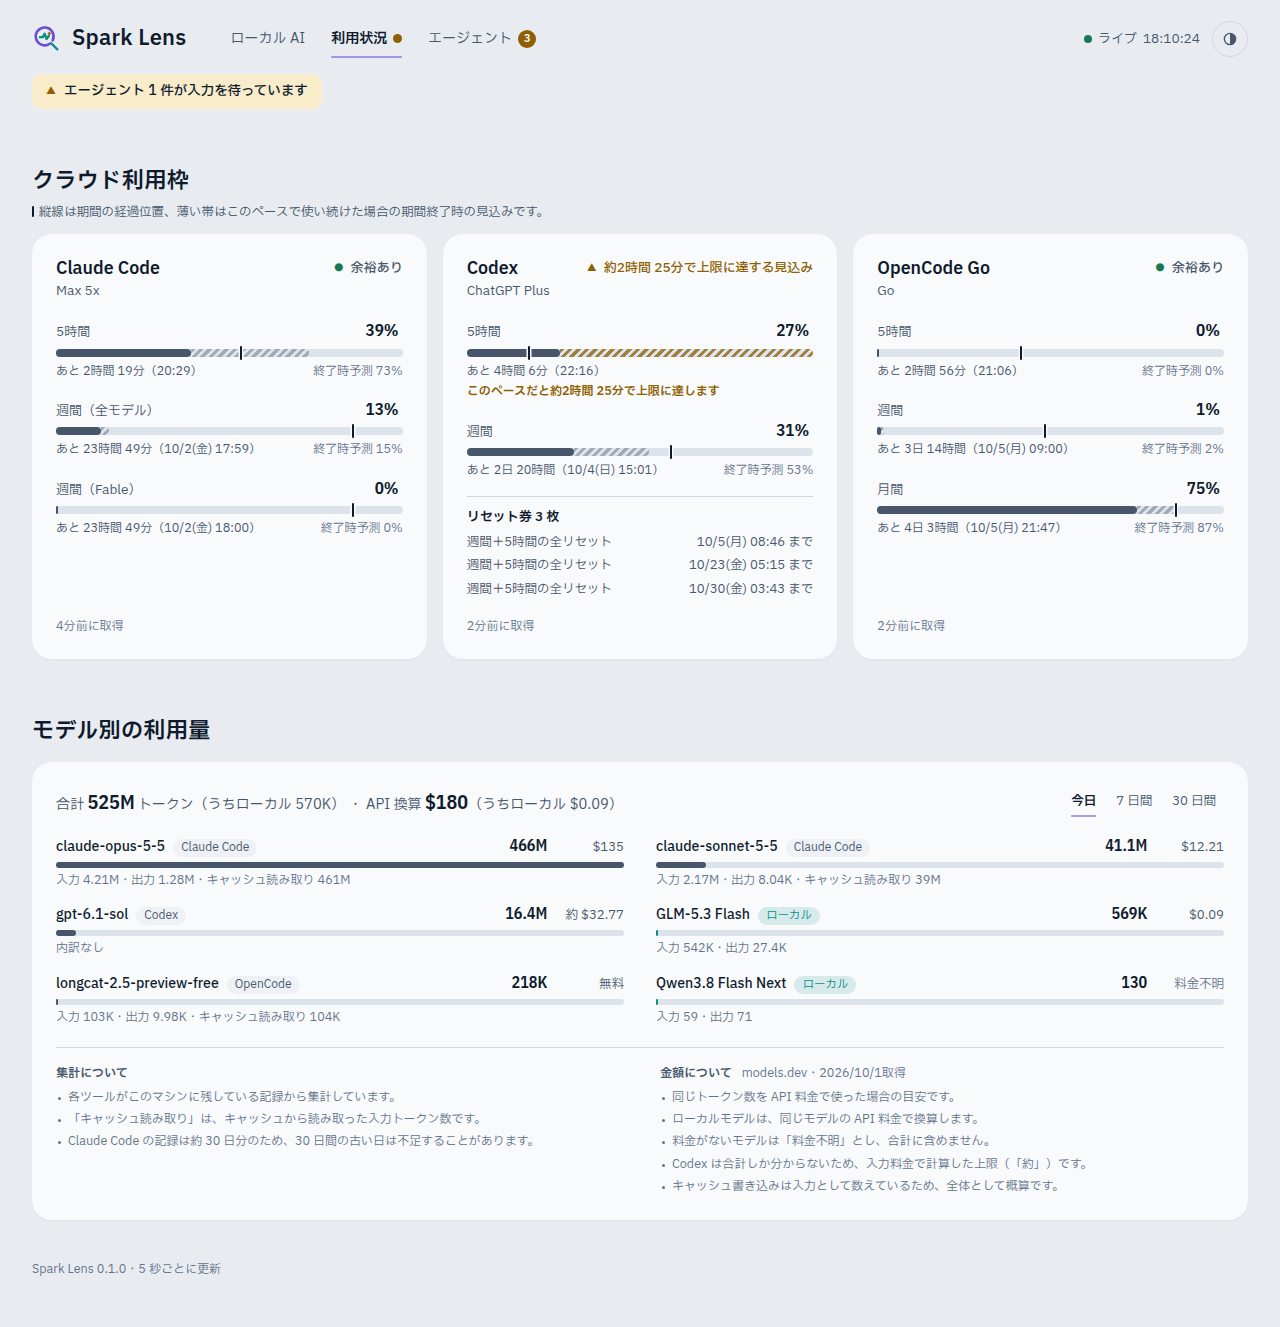
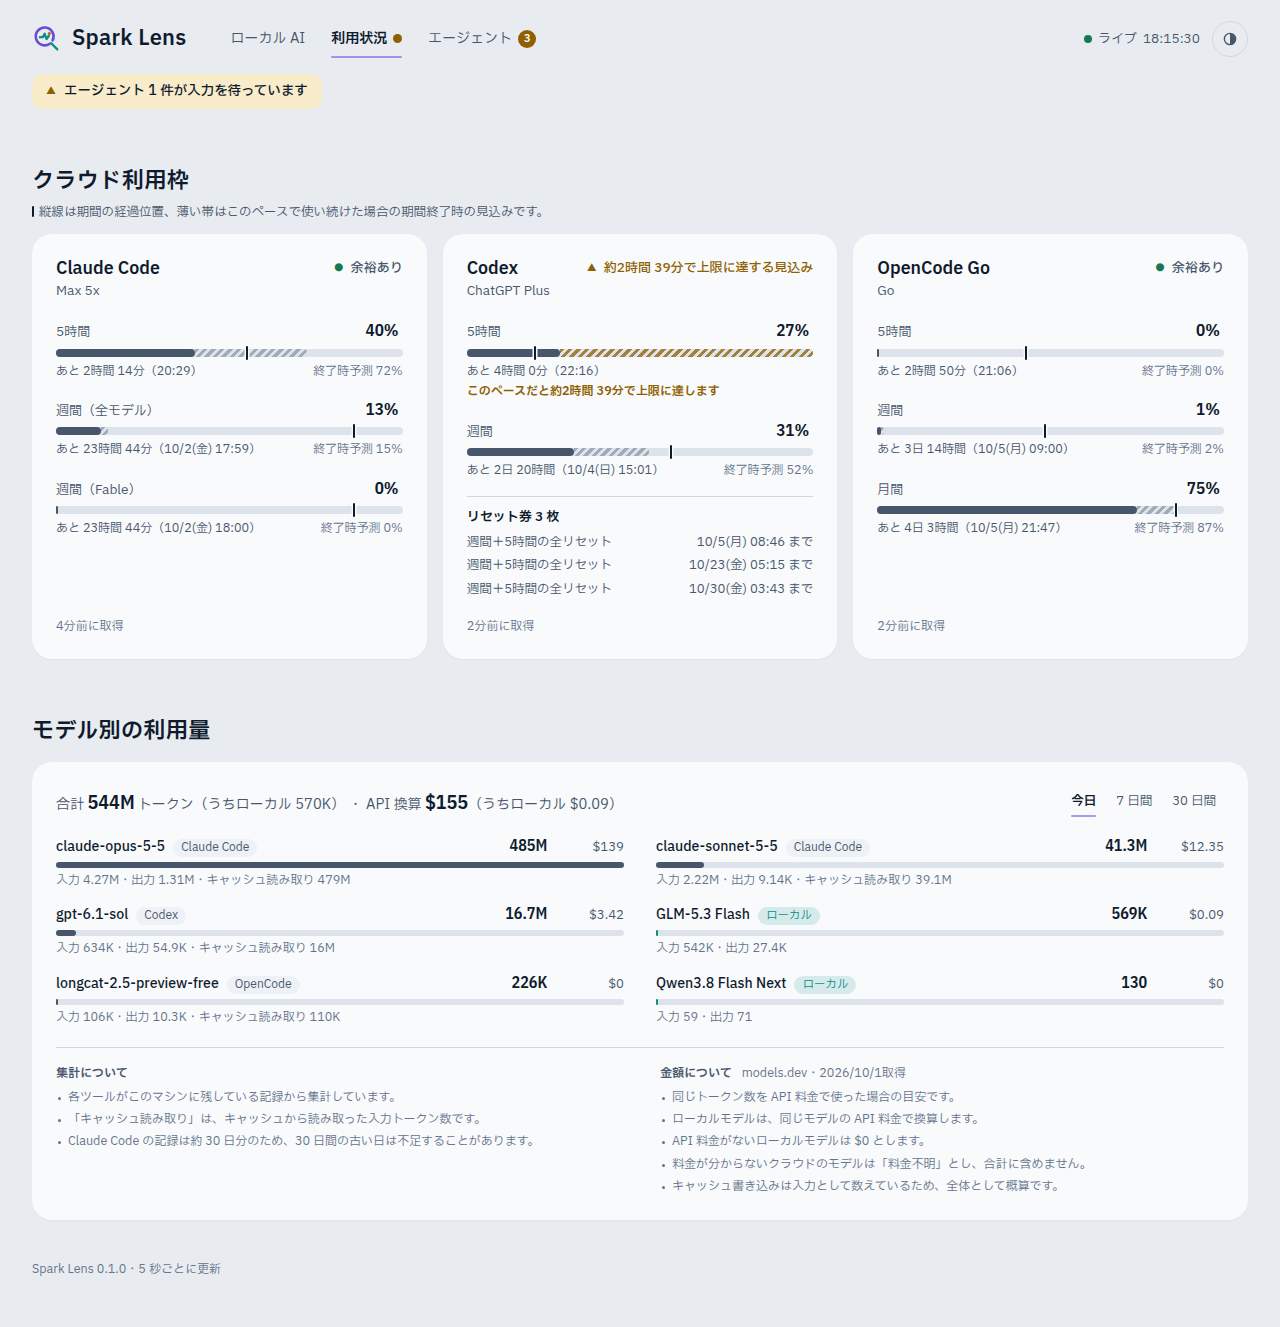
Codex usage with input, cached and output from rollouts; local models without an API price count as $0

diff --git a/server/collectors/usage.ts b/server/collectors/usage.ts
@@ -1,8 +1,7 @@
-import { existsSync, readdirSync } from "node:fs";
-import { readdir, readFile, stat } from "node:fs/promises";
+import { existsSync } from "node:fs";
+import { open, readdir, readFile, stat } from "node:fs/promises";
 import { homedir } from "node:os";
 import { join } from "node:path";
-import { DatabaseSync } from "node:sqlite";
 import { stateDir } from "../config.ts";
 import { run } from "../exec.ts";
 import { applyPrices, PriceBook } from "../pricing.ts";
@@ -140,32 +139,114 @@ class ClaudeSource {
 
 // ------------------------------------------------------------------ Codex
 
-function codexThreads(target: DayModel): void {
-  const home = process.env.CODEX_HOME || join(homedir(), ".codex");
-  let names: string[] = [];
-  try {
-    names = readdirSync(home);
-  } catch {
-    return;
-  }
-  const version = (n: string) => Number(/^state_(\d+)\.sqlite$/.exec(n)?.[1] ?? -1);
-  const db = names.filter((n) => version(n) >= 0).sort((a, b) => version(a) - version(b)).pop();
-  if (!db) return;
-  try {
-    const conn = new DatabaseSync(join(home, db), { readOnly: true });
+interface CodexEntry {
+  key: string;
+  day: string;
+  model: string;
+  input: number;
+  output: number;
+  cached: number;
+}
+
+/**
+ * Reads complete lines of a Codex rollout. Each `token_usage_record` is one
+ * response with its own usage; the model comes from the latest
+ * `turn_context`. `input_tokens` includes the cached part, as in the OpenAI API.
+ * Older rollouts without those records fall back to `token_count` events.
+ */
+export function parseCodexRollout(text: string, state: { model: string | null }): CodexEntry[] {
+  const out: CodexEntry[] = [];
+  for (const line of text.split("\n")) {
+    if (!line.includes('"turn_context"') && !line.includes('"token_usage_record"') && !line.includes('"token_count"')) continue;
+    let o: Record<string, unknown>;
     try {
-      const rows = conn
-        .prepare("select tokens_used, model, model_provider, updated_at_ms from threads where updated_at_ms > ? and tokens_used > 0")
-        .all(Date.now() - SCAN_DAYS * 86400_000) as Record<string, unknown>[];
-      for (const r of rows) {
-        const model = typeof r.model === "string" && r.model ? r.model : "モデル不明";
-        add(target, localDate(new Date(Number(r.updated_at_ms))), "Codex", model, { totalOnly: Number(r.tokens_used) || 0 });
-      }
-    } finally {
-      conn.close();
+      o = JSON.parse(line);
+    } catch {
+      continue;
     }
-  } catch {
-    // Schema change: Codex simply drops out of the table.
+    const p = (o.payload ?? {}) as Record<string, unknown>;
+    if (o.type === "turn_context") {
+      if (typeof p.model === "string" && p.model) state.model = p.model;
+      continue;
+    }
+    let usage: Record<string, number> | undefined;
+    let key: string;
+    if (o.type === "token_usage_record") {
+      usage = p.usage as Record<string, number> | undefined;
+      key = `r:${String(p.response_id ?? "")}`;
+    } else if (o.type === "event_msg" && p.type === "token_count") {
+      const info = p.info as Record<string, Record<string, number>> | null | undefined;
+      usage = info?.last_token_usage;
+      // The running total identifies a reading even when it is logged twice.
+      key = `c:${p.info ? JSON.stringify(info?.total_token_usage) : ""}`;
+    } else continue;
+    const at = Date.parse(String(o.timestamp ?? ""));
+    if (!usage || !Number.isFinite(at) || key.length <= 2) continue;
+    const cached = usage.cached_input_tokens ?? 0;
+    out.push({
+      key,
+      day: localDate(new Date(at)),
+      model: state.model ?? "モデル不明",
+      input: Math.max(0, (usage.input_tokens ?? 0) - cached),
+      output: usage.output_tokens ?? 0,
+      cached,
+    });
+  }
+  return out;
+}
+
+/** Codex rollouts, read incrementally: a growing file is read from where the last poll stopped. */
+class CodexSource {
+  private readonly files = new Map<string, { offset: number; mtimeMs: number; model: string | null; entries: CodexEntry[] }>();
+  private readonly root = join(process.env.CODEX_HOME || join(homedir(), ".codex"), "sessions");
+
+  async collect(target: DayModel): Promise<void> {
+    const since = Date.now() - SCAN_DAYS * 86400_000;
+    const found = await walk(this.root, since);
+    const live = new Set(found);
+    for (const f of this.files.keys()) if (!live.has(f)) this.files.delete(f);
+    for (const f of found) {
+      try {
+        const info = await stat(f);
+        let cur = this.files.get(f);
+        // A file that shrank was replaced; start over.
+        if (!cur || info.size < cur.offset) cur = { offset: 0, mtimeMs: 0, model: null, entries: [] };
+        if (info.size > cur.offset) {
+          const handle = await open(f, "r");
+          try {
+            const buf = Buffer.alloc(info.size - cur.offset);
+            await handle.read(buf, 0, buf.length, cur.offset);
+            // Only complete lines; a half-written last line waits for the next poll.
+            const end = buf.lastIndexOf(0x0a) + 1;
+            if (end > 0) {
+              const state = { model: cur.model };
+              cur.entries.push(...parseCodexRollout(buf.subarray(0, end).toString("utf8"), state));
+              cur.model = state.model;
+              cur.offset += end;
+            }
+          } finally {
+            await handle.close();
+          }
+        }
+        cur.mtimeMs = info.mtimeMs;
+        this.files.set(f, cur);
+      } catch {
+        // Unreadable file: skip this round.
+      }
+    }
+    // Forked threads copy earlier lines; count each response once.
+    const seen = new Set<string>();
+    for (const { entries } of this.files.values()) {
+      // Current rollouts log each response twice (a usage record and a token
+      // count); use the records, and the counts only for rollouts without them.
+      const records = entries.some((e) => e.key.startsWith("r:"));
+      for (const e of entries) {
+        if (records !== e.key.startsWith("r:")) continue;
+        if (seen.has(e.key)) continue;
+        seen.add(e.key);
+        add(target, e.day, "Codex", e.model, e);
+      }
+    }
   }
 }
 
@@ -234,6 +315,7 @@ export class UsageCollector {
   private current: UsageSnapshot = { generatedAt: 0, pricesFetchedAt: null, pricesSource: null, today: [], week: [], month: [] };
   private busy = false;
   private readonly claude = new ClaudeSource();
+  private readonly codex = new CodexSource();
   private readonly prices = new PriceBook(stateDir(), { log: (m) => console.error(`[usage] ${m}`) });
   private readonly opencodeBin: string | null;
 
@@ -260,7 +342,7 @@ export class UsageCollector {
       void this.prices.refreshIfStale();
       const byDay: DayModel = new Map();
       await this.claude.collect(byDay);
-      codexThreads(byDay);
+      await this.codex.collect(byDay);
       for (const llm of this.llms) {
         for (const day of recentDays(MONTH_DAYS)) {
           const t = this.store.tokensOn(llm.id, new Date(`${day}T12:00:00`));

diff --git a/server/test/usage.test.ts b/server/test/usage.test.ts
@@ -59,3 +59,36 @@ test("recentDays: today first, one distinct local date per day", () => {
   assert.equal(new Set(days).size, 30);
   assert.deepEqual(recentDays(7, now), days.slice(0, 7));
 });
+
+test("Codex rollout: per-response usage with the model from the turn context, cached split out of input", async () => {
+  const { parseCodexRollout } = await import("../collectors/usage.ts");
+  const lines = [
+    { timestamp: "2026-10-01T03:00:00Z", type: "turn_context", payload: { model: "gpt-6.1-sol" } },
+    { timestamp: "2026-10-01T03:00:05Z", type: "token_usage_record", payload: { response_id: "resp_1", usage: { input_tokens: 1000, cached_input_tokens: 800, output_tokens: 50 } } },
+    { timestamp: "2026-10-01T03:00:06Z", type: "event_msg", payload: { type: "agent_message" } },
+    { timestamp: "2026-10-01T03:00:09Z", type: "token_usage_record", payload: { response_id: "resp_2", usage: { input_tokens: 1200, cached_input_tokens: 1000, output_tokens: 70 } } },
+  ].map((l) => JSON.stringify(l));
+  const state = { model: null as string | null };
+  const out = parseCodexRollout(lines.join("\n"), state);
+  assert.deepEqual(
+    out.map((e) => [e.key, e.model, e.input, e.cached, e.output]),
+    [
+      ["r:resp_1", "gpt-6.1-sol", 200, 800, 50],
+      ["r:resp_2", "gpt-6.1-sol", 200, 1000, 70],
+    ],
+  );
+  // The model carries over to the next chunk read from the same file.
+  const more = parseCodexRollout(JSON.stringify({ timestamp: "2026-10-01T03:01:00Z", type: "token_usage_record", payload: { response_id: "resp_3", usage: { input_tokens: 5, output_tokens: 1 } } }), state);
+  assert.equal(more[0]?.model, "gpt-6.1-sol");
+});
+
+test("Codex rollout: token counts are only a fallback for rollouts without usage records", async () => {
+  const { parseCodexRollout } = await import("../collectors/usage.ts");
+  const both = [
+    { timestamp: "2026-10-01T03:00:00Z", type: "turn_context", payload: { model: "m" } },
+    { timestamp: "2026-10-01T03:00:05Z", type: "token_usage_record", payload: { response_id: "resp_1", usage: { input_tokens: 10, output_tokens: 1 } } },
+    { timestamp: "2026-10-01T03:00:05Z", type: "event_msg", payload: { type: "token_count", info: { total_token_usage: { total_tokens: 11 }, last_token_usage: { input_tokens: 10, output_tokens: 1 } } } },
+  ].map((l) => JSON.stringify(l)).join("\n");
+  const keys = parseCodexRollout(both, { model: null }).map((e) => e.key[0]);
+  assert.deepEqual(keys, ["r", "c"], "both are parsed; the collector keeps the records");
+});

diff --git a/web/src/components/ModelUsage.tsx b/web/src/components/ModelUsage.tsx
@@ -15,13 +15,13 @@ function breakdown(r: Row): string {
 
 function usd(n: number): string {
   if (n >= 100) return `$${Math.round(n).toLocaleString("en-US")}`;
+  if (n === 0) return "$0";
   if (n >= 1) return `$${n.toFixed(2)}`;
   return n > 0 && n < 0.01 ? "$0.01 未満" : `$${n.toFixed(2)}`;
 }
 
 function price(r: Row): { text: string; unknown: boolean } {
   if (r.usd === null) return { text: "料金不明", unknown: true };
-  if (r.usd === 0) return { text: "無料", unknown: false };
   return { text: `${r.usdEstimate ? "約 " : ""}${usd(r.usd)}`, unknown: false };
 }
 
@@ -97,8 +97,8 @@ export function ModelUsage({ usage }: { usage: UsageSnapshot }) {
           <ul>
             <li>同じトークン数を API 料金で使った場合の目安です。</li>
             <li>ローカルモデルは、同じモデルの API 料金で換算します。</li>
-            <li>料金がないモデルは「料金不明」とし、合計に含めません。</li>
-            <li>Codex は合計しか分からないため、入力料金で計算した上限（「約」）です。</li>
+            <li>API 料金がないローカルモデルは $0 とします。</li>
+            <li>料金が分からないクラウドのモデルは「料金不明」とし、合計に含めません。</li>
             <li>キャッシュ書き込みは入力として数えているため、全体として概算です。</li>
           </ul>
         </div>

diff --git a/server/test/pricing.test.ts b/server/test/pricing.test.ts
@@ -98,3 +98,13 @@ test("no price table: everything is unknown, and applyPrices clears stale flags"
   assert.equal(r.usd, null);
   assert.equal(r.usdEstimate, undefined);
 });
+
+test("a local model with no API counterpart counts as $0; an unknown cloud model stays unknown", () => {
+  const list = [
+    row({ source: "ローカル", local: true, model: "Qwen3.8 Flash Next", input: 10, output: 10, cached: 0, total: 20 }),
+    row({ source: "Codex", model: "no-such-model", input: 10, output: 10, cached: 0, total: 20 }),
+  ];
+  applyPrices(list, table);
+  assert.equal(list[0]!.usd, 0);
+  assert.equal(list[1]!.usd, null);
+});

diff --git a/server/pricing.ts b/server/pricing.ts
@@ -144,7 +144,8 @@ export function priceRow(table: PriceTable | null, row: ModelUsage): { usd: numb
 export function applyPrices(list: ModelUsage[], table: PriceTable | null): void {
   for (const r of list) {
     const p = priceRow(table, r);
-    r.usd = p.usd;
+    // A local model with no API counterpart still costs nothing to run here.
+    r.usd = p.usd === null && r.local && table ? 0 : p.usd;
     if (p.usdEstimate) r.usdEstimate = true;
     else delete r.usdEstimate;
   }
